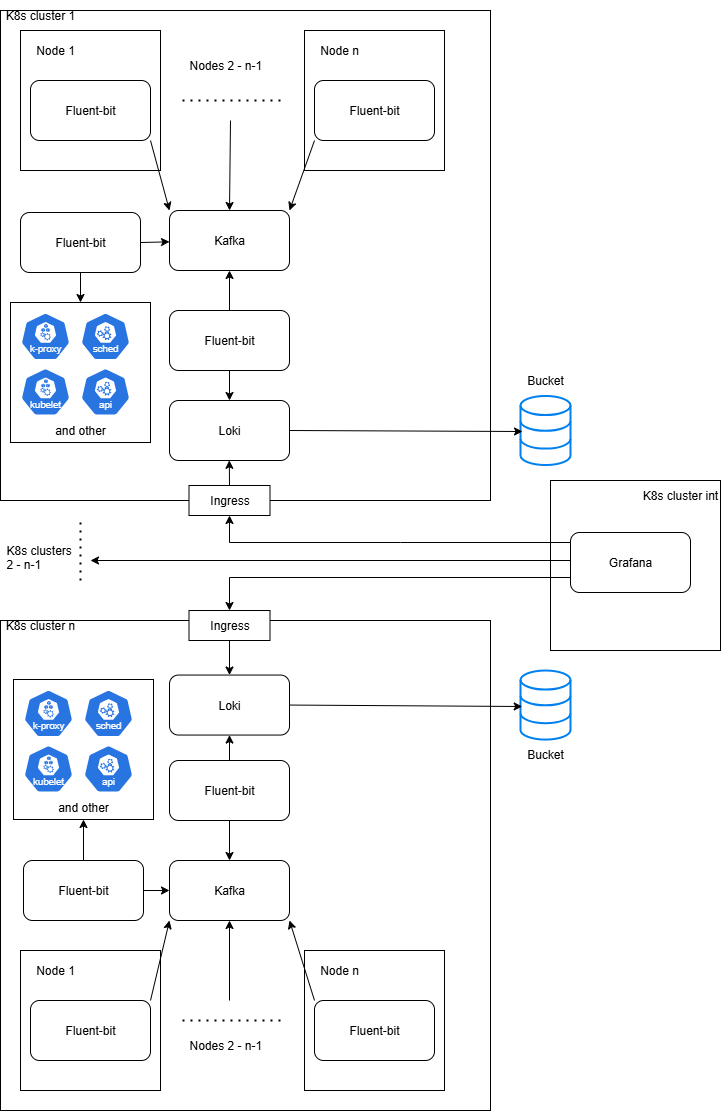
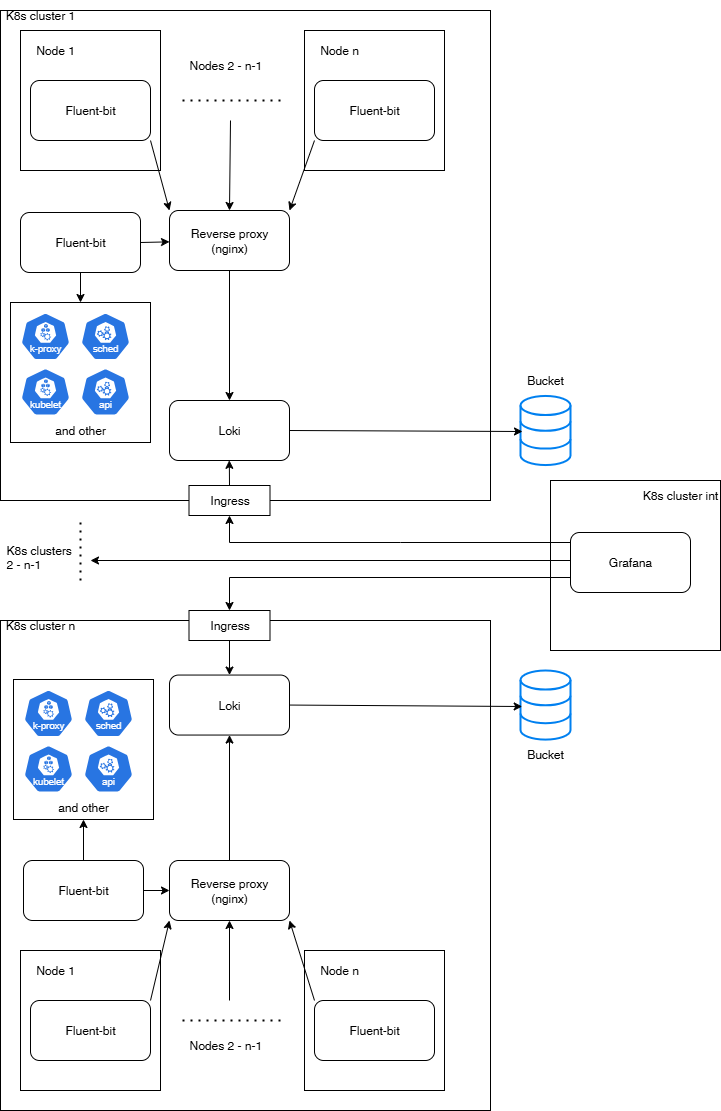
remove kafka

diff --git a/docs/logging/README.md b/docs/logging/README.md
@@ -31,7 +31,6 @@ Architecture components:
     * Pulling and pushing logs
     * Filtering labels
     * Transformation logs to a preset format
-* Kafka - message queue to prevent log loss
 * Loki used for
     * API for issueing queries (LogQL)
     * Responsible for ingesting and storing logs and processing queries
@@ -88,7 +87,6 @@ The Helm chart deploys the following components:
 * Read component (3 replicas)
 * Write component (3 replicas)
 * Backend component (3 replicas)
-* Gateway (1 NGINX replica)
 * Index and Chunk cache (1 replica)
 
 [Detailed description of the components](https://grafana.com/docs/loki/latest/get-started/components/)
@@ -103,6 +101,8 @@ replication_factor:
 * maxFailure = (replication_factor / 2) +1
 
 A quorum is defined as floor( replication_factor / 2 ) + 1. So, for our replication_factor of 3, we require that two writes succeed. If less than two writes succeed, the distributor returns an error and the write operation will be retried. (If a write is acknowledged by 2 out of 3 ingesters, we can tolerate the loss of one ingester but not two, as this would result in data loss.)
+
+A load balancer must sit in front of the distributor to properly balance incoming traffic to them. In Kubernetes, the service load balancer provides this service.
 
 
 ## TO DO
